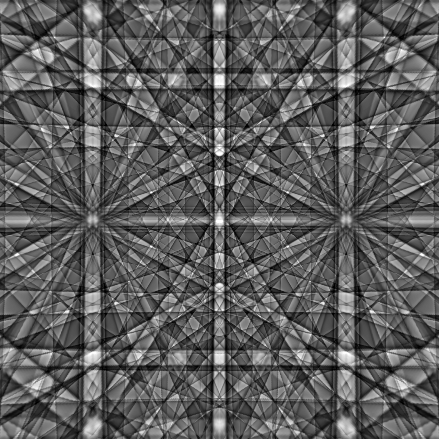
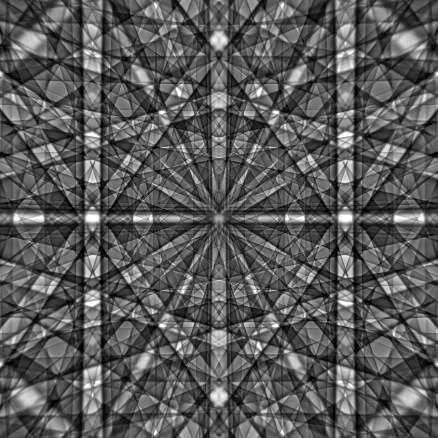
Highlights for bands
100 and 110 planes are finished, having issues with the 101 plane

diff --git a/render.js b/render.js
@@ -40,19 +40,49 @@ function init() {
     // defines cylinder geometry, cyl_height defined through Bragg's Law
     var cyl_height = 0.02262;
     var cylGeometry = new THREE.CylinderGeometry(0.48, 0.48, cyl_height, 30, 30, true);
-    var cylMaterial = new THREE.MeshBasicMaterial({color: 0xFF0000, side: THREE.DoubleSide, transparent: true, opacity: 0.3});
+    var cylMaterial100 = new THREE.MeshBasicMaterial({color: 0xFF0000, side: THREE.DoubleSide, transparent: true, opacity: 0.3});
+    var cylMaterial110 = new THREE.MeshBasicMaterial({color: 0x00c400, side: THREE.DoubleSide, transparent: true, opacity: 0.3});
+    var cylMaterial101 = new THREE.MeshBasicMaterial({color: 0x00d6c1, side: THREE.DoubleSide, transparent: true, opacity: 0.3});
     
     // cylinders defined, these are used to highlight Kikuchi band patterns
-    cylinder = new THREE.Mesh(cylGeometry, cylMaterial);
-    cylinder2 = new THREE.Mesh(cylGeometry, cylMaterial);
-    cylinder2.rotation.z = Math.PI/2;
-    cylinder3 = new THREE.Mesh(cylGeometry, cylMaterial);
-    cylinder3.rotation.x = Math.PI/2;
     
+    //cylinders for 100 plane
+    cylinder1001 = new THREE.Mesh(cylGeometry, cylMaterial100);
+    cylinder1002 = new THREE.Mesh(cylGeometry, cylMaterial100);
+    cylinder1002.rotation.z = Math.PI/3;
+    cylinder1003 = new THREE.Mesh(cylGeometry, cylMaterial100);
+    cylinder1003.rotation.z = Math.PI-(Math.PI/3);
+
+    //cylinders for 110 plane
+    cylinder1101 = new THREE.Mesh(cylGeometry, cylMaterial110);
+    cylinder1101.rotation.z = Math.PI/2;
+    cylinder1102 = new THREE.Mesh(cylGeometry, cylMaterial110);
+    cylinder1102.rotation.z = Math.PI/6;
+    cylinder1103 = new THREE.Mesh(cylGeometry, cylMaterial110);
+    cylinder1103.rotation.z = Math.PI-(Math.PI/6);
+
+    //clylinders for 101 plane
+    cylinder1011 = new THREE.Mesh(cylGeometry, cylMaterial101);
+    cylinder1011.rotation.y = Math.PI/6;
+    cylinder1011.rotation.z = Math.PI-(Math.PI/3);
+    cylinder1011.rotation.x = Math.PI/2;
+    cylinder1012 = new THREE.Mesh(cylGeometry, cylMaterial101);
+    cylinder1012.rotation.y = Math.PI/6;
+    cylinder1012.rotation.z = Math.PI/3;
+    cylinder1012.rotation.x = Math.PI/2;
+    cylinder1013 = new THREE.Mesh(cylGeometry, cylMaterial101);
+    cylinder1013.rotation.y = Math.PI-(Math.PI/6);
+    cylinder1013.rotation.z = Math.PI/3;
+    cylinder1013.rotation.x = Math.PI/2;
+    cylinder1014 = new THREE.Mesh(cylGeometry, cylMaterial101);
+    cylinder1014.rotation.y = Math.PI-(Math.PI/6);
+    cylinder1014.rotation.z = Math.PI-(Math.PI/3);
+    cylinder1014.rotation.x = Math.PI/2;
+
     // generates cylinders
-    scene.add(cylinder);
-    //scene.add(cylinder2);
-    //scene.add(cylinder3);
+    //scene.add(cylinder1001,cylinder1002,cylinder1003);
+    //scene.add(cylinder1101,cylinder1102,cylinder1103);
+    scene.add(cylinder1011,cylinder1012,cylinder1013,cylinder1014);
 
     // z-axis position of camera, centre of cube at position 0
     camera.position.z = 0;

diff --git a/index.html b/index.html
@@ -35,7 +35,6 @@
       q4 = qarray[3];
     }
     animate();
-    console.log(q1,q2,q3,q4)
   }
     </script>
 
